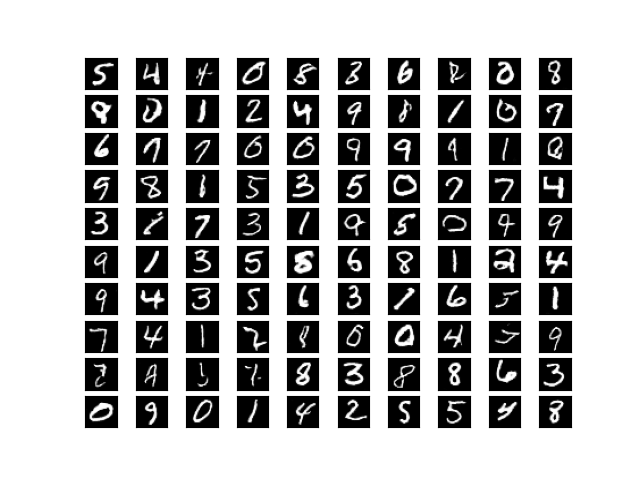
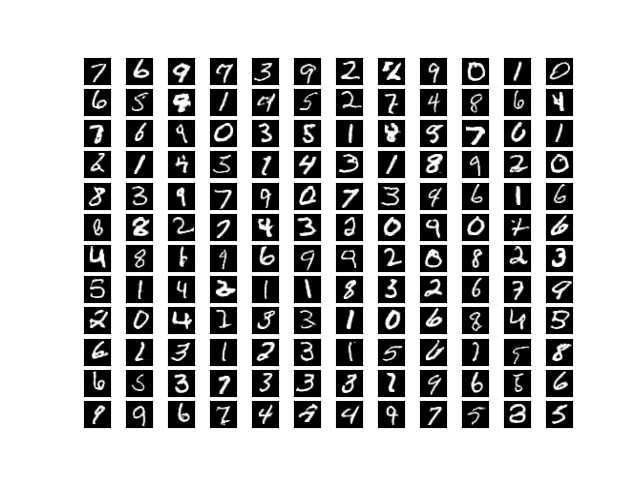
nets for MNIST improved + gradient for generator changed

diff --git a/net.py b/net.py
@@ -7,15 +7,15 @@ class Generator(nn.Module):
     def __init__(self, noise_size):
         super(Generator, self).__init__()
         self.noise_size = noise_size
-        self.conv1 = nn.ConvTranspose2d(noise_size, 256, kernel_size=(4, 4), stride=(1, 1), padding=(0, 0))
-        self.b1 = nn.BatchNorm2d(256)
-        self.conv2 = nn.ConvTranspose2d(256, 128, kernel_size=(4, 4), stride=(2, 2), padding=(1, 1))
-        self.b2 = nn.BatchNorm2d(128)
-        self.conv3 = nn.ConvTranspose2d(128, 64, kernel_size=(4, 4), stride=(2, 2), padding=(2, 2))
-        self.b3 = nn.BatchNorm2d(64)
-        self.conv4 = nn.ConvTranspose2d(64, 32, kernel_size=(4, 4), stride=(2, 2), padding=(1, 1))
-        self.b4 = nn.BatchNorm2d(32)
-        self.conv5 = nn.Conv2d(32, 1, kernel_size=(3, 3), stride=(1, 1), padding=(1, 1))
+        self.conv1 = nn.ConvTranspose2d(noise_size, 512, kernel_size=(4, 4), stride=(1, 1), padding=(0, 0))
+        self.b1 = nn.BatchNorm2d(512)
+        self.conv2 = nn.ConvTranspose2d(512, 256, kernel_size=(4, 4), stride=(2, 2), padding=(1, 1))
+        self.b2 = nn.BatchNorm2d(256)
+        self.conv3 = nn.ConvTranspose2d(256, 128, kernel_size=(4, 4), stride=(2, 2), padding=(2, 2))
+        self.b3 = nn.BatchNorm2d(128)
+        self.conv4 = nn.ConvTranspose2d(128, 64, kernel_size=(4, 4), stride=(2, 2), padding=(1, 1))
+        self.b4 = nn.BatchNorm2d(64)
+        self.conv5 = nn.Conv2d(64, 1, kernel_size=(3, 3), stride=(1, 1), padding=(1, 1))
 
     def forward(self, x):
         # b x noise_size x 1 x 1

diff --git a/main.py b/main.py
@@ -54,7 +54,7 @@ for step in range(n_iter):
         loss.backward()
         optimd.step()
     noise = distribution.sample((batch_size, noise_size, 1, 1)).to(device)
-    loss = torch.log(1 - d(g(noise)))
+    loss = - torch.log(d(g(noise)))
     loss = loss.mean()
     optimg.zero_grad()
     loss.backward()
